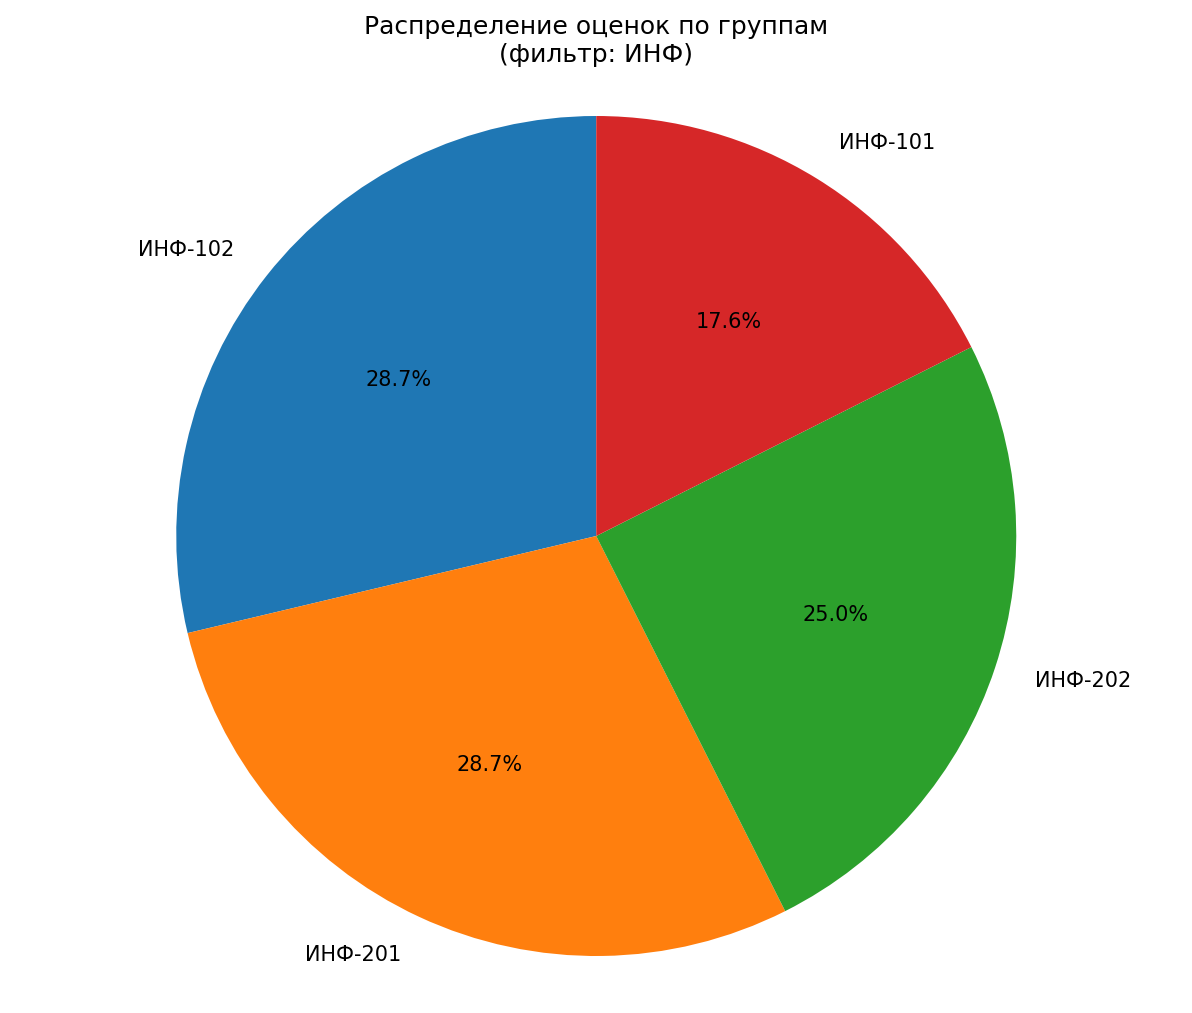
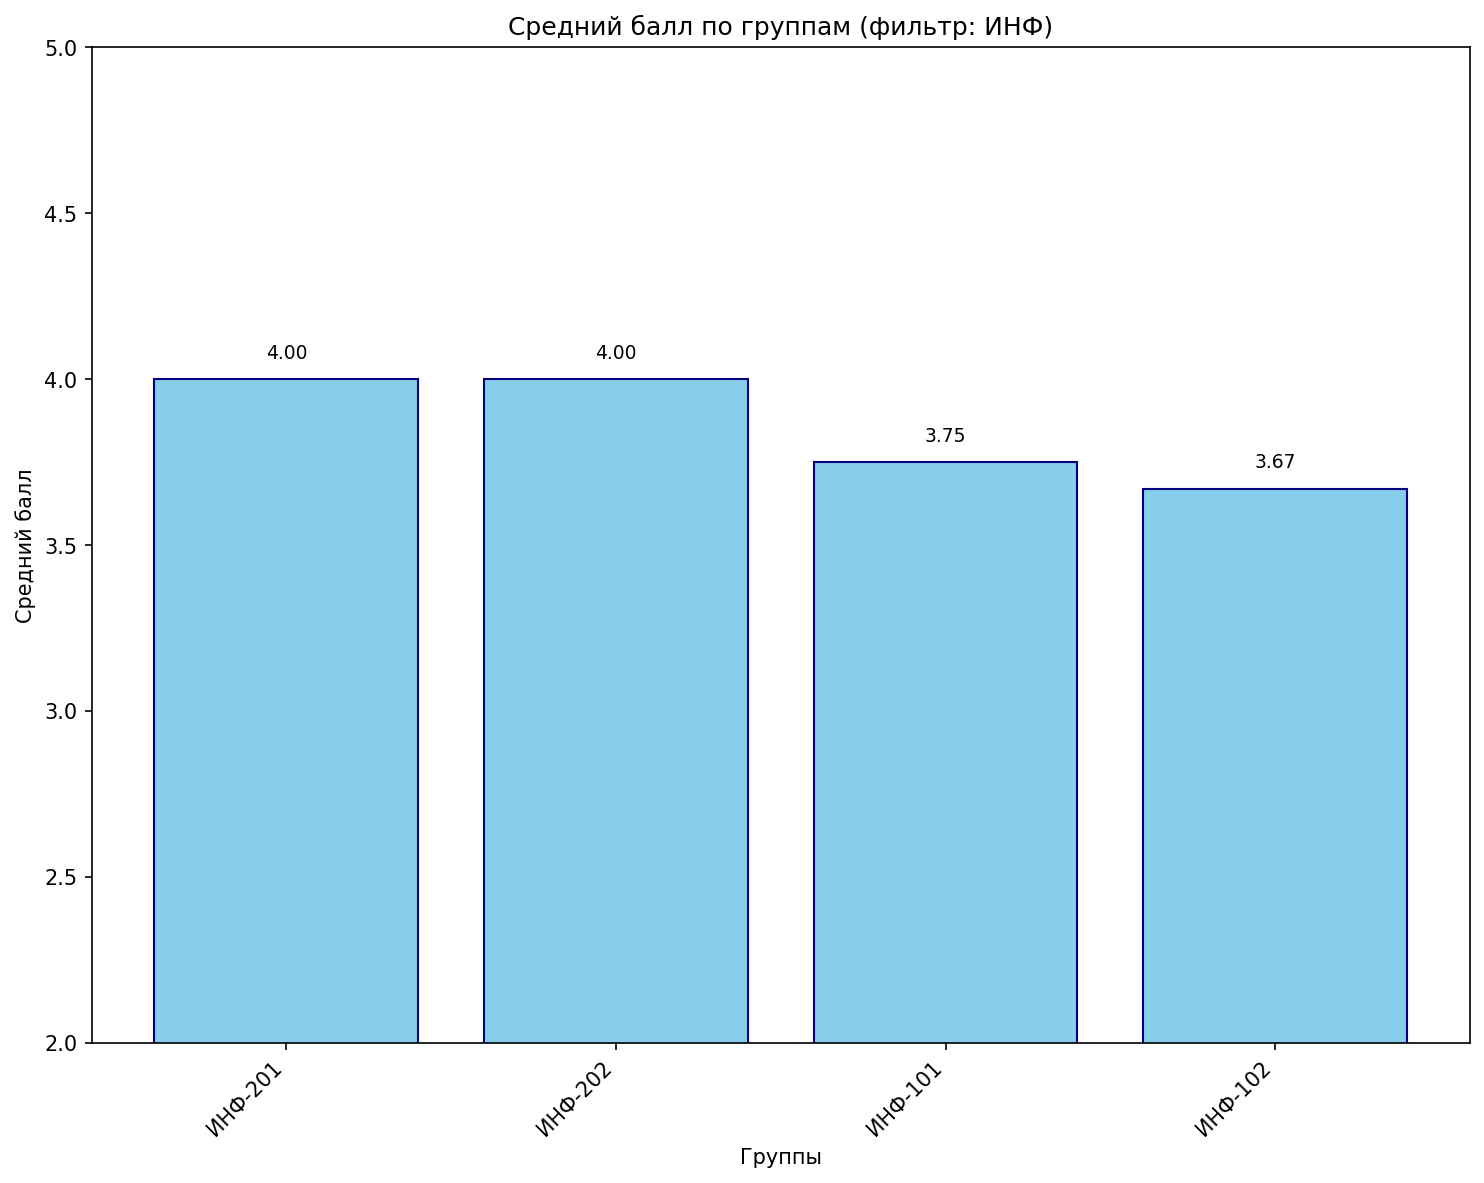
Исправлен task1 по сезонам в GUI ВУЗ

diff --git a/app/gui.py b/app/gui.py
@@ -850,14 +850,24 @@ class UniversityApp:
         """
 
     def task1_avg_by_season(self):
+        season = self.season_expr()
         sql = f"""
-            SELECT {self.season_expr()} AS сезон,
-                   ROUND(AVG(u.оценка)::numeric, 2) AS средний_балл,
-                   COUNT(*) AS оценок
-            FROM УСПЕВАЕМОСТЬ u
-            GROUP BY сезон
+            WITH season_data AS (
+                SELECT {season} AS сезон,
+                       ROUND(AVG(u.оценка)::numeric, 2) AS средний_балл,
+                       COUNT(*) AS оценок
+                FROM УСПЕВАЕМОСТЬ u
+                GROUP BY {season}
+            )
+            SELECT сезон, средний_балл, оценок
+            FROM season_data
             ORDER BY CASE сезон
-                WHEN 'Зима' THEN 1 WHEN 'Весна' THEN 2 WHEN 'Лето' THEN 3 WHEN 'Осень' THEN 4 ELSE 5 END
+                WHEN 'Зима' THEN 1
+                WHEN 'Весна' THEN 2
+                WHEN 'Лето' THEN 3
+                WHEN 'Осень' THEN 4
+                ELSE 5
+            END
         """
         self.execute_and_display(sql, title="task1: средний балл по сезонам", status="task1")
 